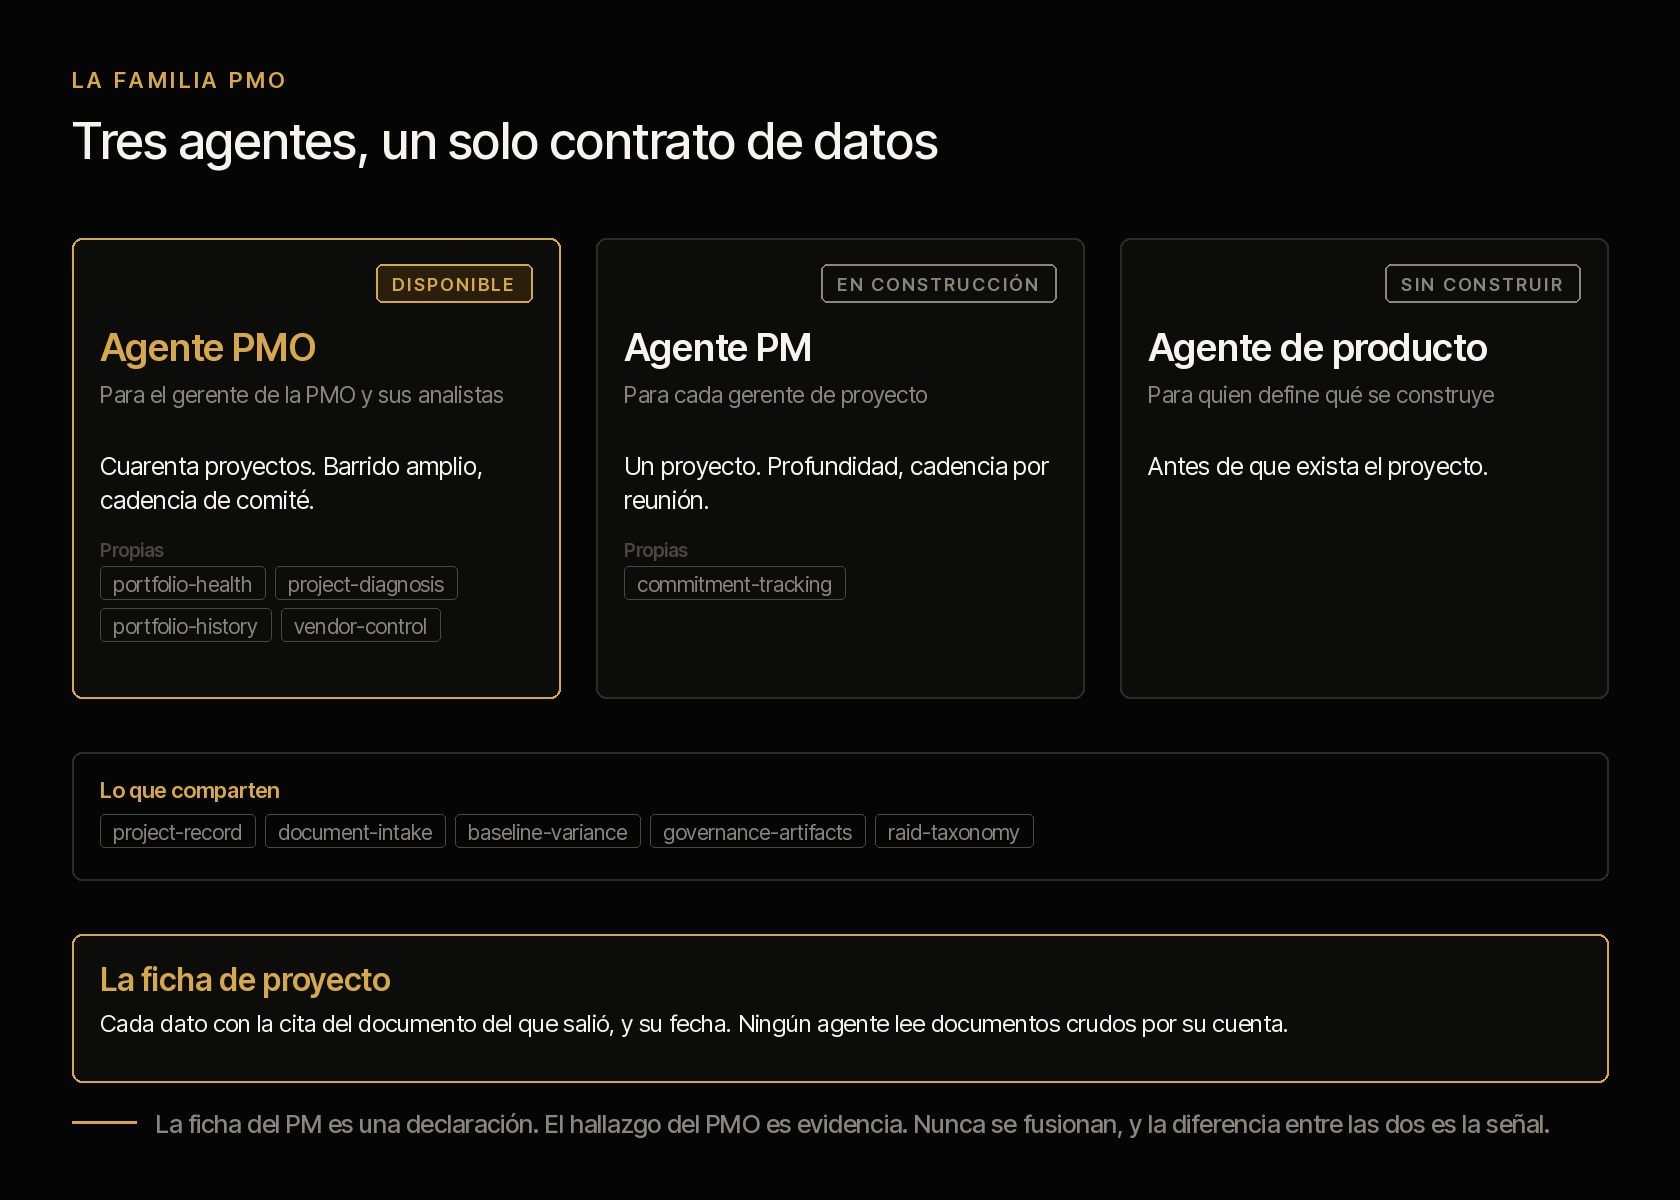
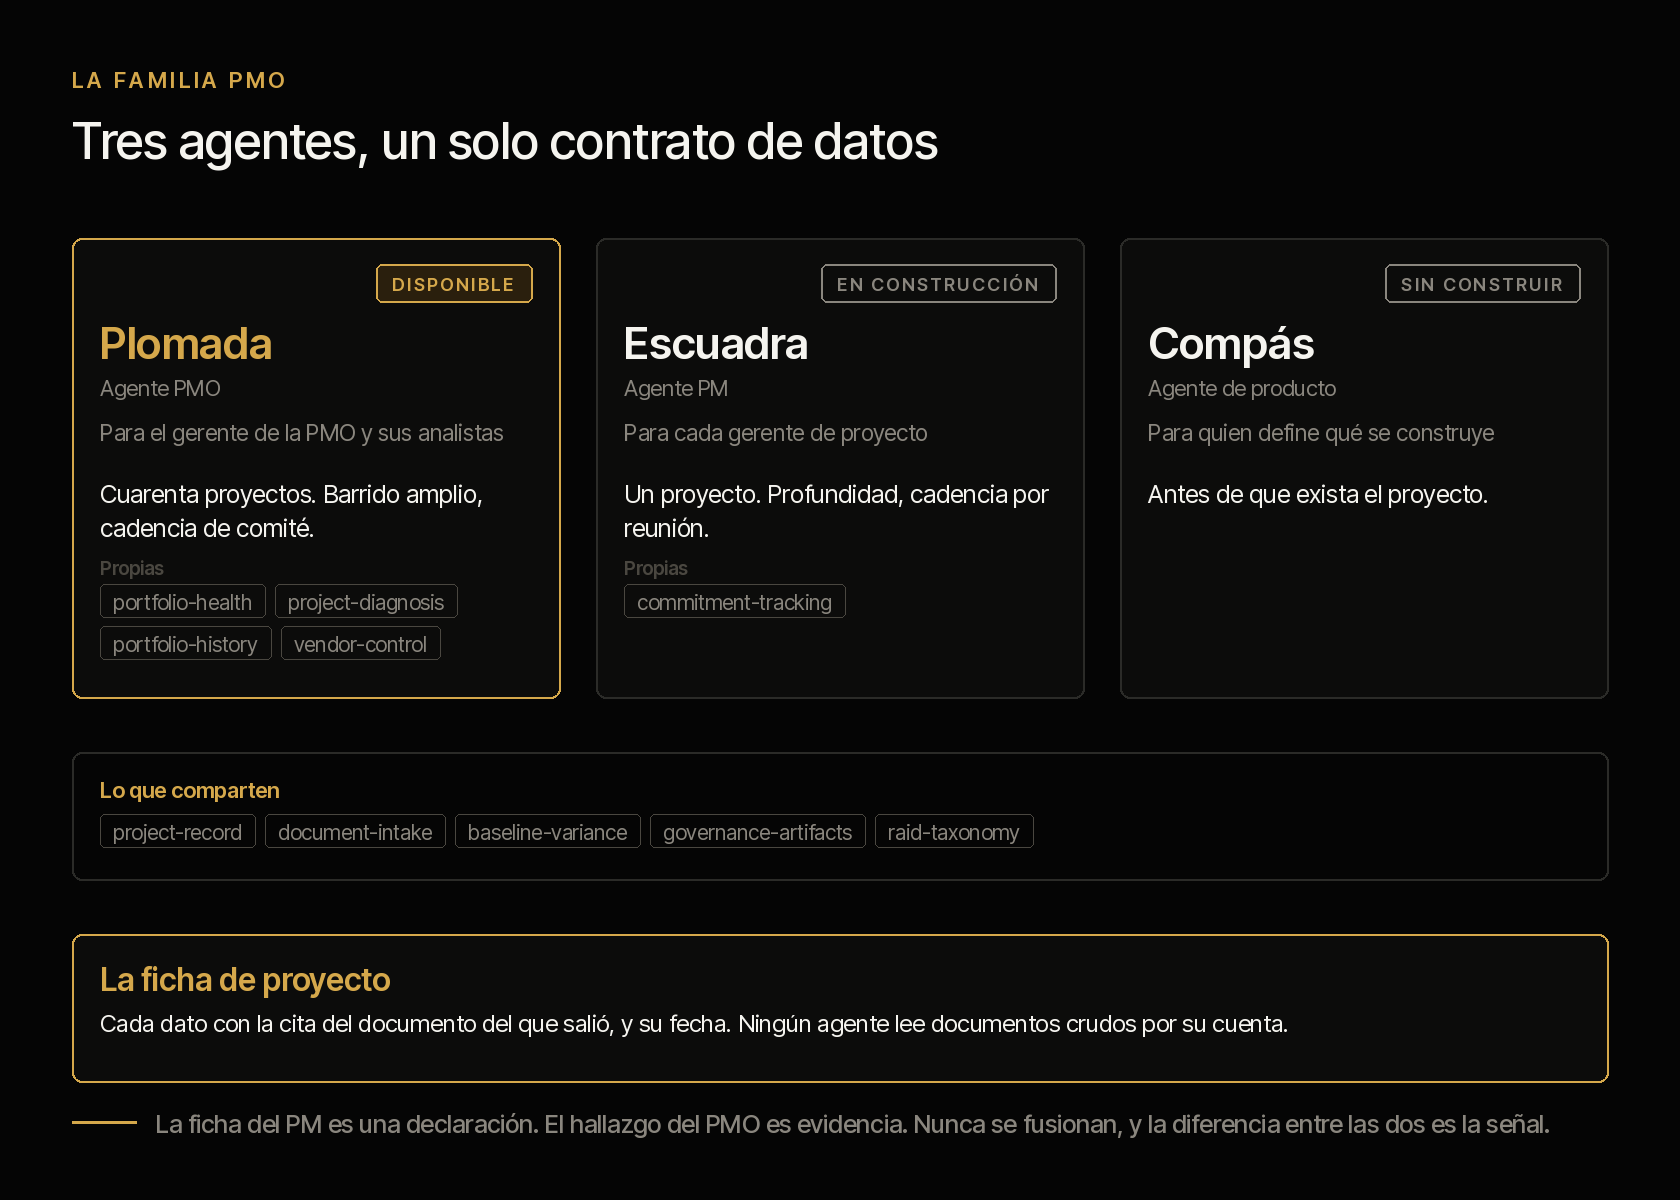
Plomada, Escuadra y Compás: los agentes tienen nombre
Instrumentos de trazo y verificación, porque es exactamente lo que hacen.
Plomada cuelga quieta y dice si algo está derecho — no opina, muestra. Escuadra
verifica el ángulo de una pieza, que es un proyecto y no el conjunto. Compás mide
antes de trazar, que es antes de que el proyecto exista.

El sistema se eligió por la restricción que importaba: un nombre que no estire a
los hermanos obliga a rebautizar a todos en cuanto aparezca el segundo.

Dos cosas quedan separadas a propósito. La capacidad se llama PMO, CFO o CLO — es
la función de la organización. El agente lleva el nombre del instrumento — es
quien la extiende. Y los nombres no son identificadores: el plugin se sigue
llamando criterio-pmo, los comandos y los skills no cambian. El nombre le da
carácter a lo que la persona ve, no a lo que el código importa.

Los nombres tampoco se traducen, porque son propios. En el README en inglés se
explica qué es cada instrumento la primera vez que aparece.

La personalidad aterriza en un solo sitio y no en todas partes: una línea de
presentación al arrancar /pmo-setup, y sigue. La confianza en esto no la da una
presentación, la da el primer resultado sobre los documentos de la persona.

El infográfico de la familia lleva los tres nombres con su rol debajo, en los dos
idiomas.

Claude-Session: https://claude.ai/code/session_01X3q3shEmTnazEdXNaUPDNb

Changed region(s): [[0.0619, 0.2775, 0.3095, 0.555], [0.3714, 0.2775, 0.619, 0.5242], [0.681, 0.2775, 0.8976, 0.4317]]

diff --git a/docs/img/graficos.py b/docs/img/graficos.py
@@ -121,6 +121,7 @@ T = {
         # ── familia ──
         'fam_ante': 'La familia PMO',
         'fam_tit': 'Tres agentes, un solo contrato de datos',
+        'n1': 'Plomada', 'n2': 'Escuadra', 'n3': 'Compás',
         'ag1': 'Agente PMO',
         'ag1_para': 'Para el gerente de la PMO y sus analistas',
         'ag1_desc': 'Cuarenta proyectos. Barrido amplio, cadencia de comité.',
@@ -181,6 +182,7 @@ T = {
         'sin_construir': 'Not built',
         'fam_ante': 'The PMO family',
         'fam_tit': 'Three agents, one data contract',
+        'n1': 'Plomada', 'n2': 'Escuadra', 'n3': 'Compás',
         'ag1': 'PMO agent',
         'ag1_para': 'For the PMO manager and their analysts',
         'ag1_desc': 'Forty projects. Broad sweep, committee cadence.',
@@ -315,24 +317,25 @@ def familia(t):
     # tres columnas
     col = (W - 2 * M - 2 * 36) // 3
     agentes = [
-        (t['ag1'], t['ag1_para'], t['ag1_desc'], t['disponible'], True, SKILLS_PMO),
-        (t['ag2'], t['ag2_para'], t['ag2_desc'], t['construccion'], False, SKILLS_PM),
-        (t['ag3'], t['ag3_para'], t['ag3_desc'], t['sin_construir'], False, SKILLS_PROD),
+        (t['n1'], t['ag1'], t['ag1_para'], t['ag1_desc'], t['disponible'], True, SKILLS_PMO),
+        (t['n2'], t['ag2'], t['ag2_para'], t['ag2_desc'], t['construccion'], False, SKILLS_PM),
+        (t['n3'], t['ag3'], t['ag3_para'], t['ag3_desc'], t['sin_construir'], False, SKILLS_PROD),
     ]
     TOP, ALTO = 238, 460
-    for i, (nombre, para, desc, estado, activo, propios) in enumerate(agentes):
+    for i, (nombre, rol, para, desc, estado, activo, propios) in enumerate(agentes):
         x = M + i * (col + 36)
         d.rounded_rectangle([(x, TOP), (x + col, TOP + ALTO)], radius=10,
                             fill=PANEL, outline=ORO if activo else FILETE, width=2)
         px = x + 28
         # la insignia va arriba a la derecha: ahí no puede chocar con nada que fluya
         insignia(d, (px, TOP + 26), estado, activo, derecha=x + col - 28)
-        d.text((px, TOP + 86), nombre, font=f(M6, 38), fill=ORO if activo else CREMA)
-        parrafo(d, (px, TOP + 142), para, f(R, 23), APAGADO, col - 56, 32)
-        parrafo(d, (px, TOP + 212), desc, f(R, 25), CREMA, col - 56, 34)
+        d.text((px, TOP + 78), nombre, font=f(M6, 44), fill=ORO if activo else CREMA)
+        d.text((px, TOP + 136), rol, font=f(R, 22), fill=APAGADO)
+        parrafo(d, (px, TOP + 180), para, f(R, 23), APAGADO, col - 56, 32)
+        parrafo(d, (px, TOP + 240), desc, f(R, 25), CREMA, col - 56, 34)
         if propios:
-            d.text((px, TOP + 300), t['propias'], font=f(M6, 19), fill=FILETE_FUERTE)
-            fin = etiquetas(d, px, TOP + 328, propios, col - 56)
+            d.text((px, TOP + 318), t['propias'], font=f(M6, 19), fill=FILETE_FUERTE)
+            fin = etiquetas(d, px, TOP + 346, propios, col - 56)
             assert fin < TOP + ALTO - 20, f'{nombre}: las etiquetas se salen de la tarjeta'
 
     # la banda de lo compartido

diff --git a/docs/agents/README.md b/docs/agents/README.md
@@ -12,9 +12,9 @@ no duplicar la rotación.
 
 Una hoja por agente:
 
-- [Agente PMO](pmo.md) — gobierno de portafolio
-- [Agente Project Manager](project-manager.md) — un proyecto
-- [Agente Product Manager](product-manager.md) — antes de que exista el proyecto
+- [**Plomada** · agente PMO](pmo.md) — gobierno de portafolio
+- [**Escuadra** · agente Project Manager](project-manager.md) — un proyecto
+- [**Compás** · agente Product Manager](product-manager.md) — antes de que exista el proyecto
 
 La forma de todo lo que estos agentes entregan —informes, proyección, piezas gráficas— está en
 [`docs/design.md`](../design.md): es el diseño del portal, y se mantiene igual aquí.
@@ -107,6 +107,28 @@ Cada fila de C lleva dos datos, y ninguno es un riesgo:
   organización), *información fuera de los documentos*, o *juicio sobre personas*.
 - **Qué le entrega al agente** — porque casi toda función de C produce el insumo de una función
   de A o de B. Es la parte que hace de esto un ciclo y no dos mundos separados.
+
+---
+
+## Cómo se llaman
+
+**La capacidad se llama PMO, CFO o CLO. El agente lleva el nombre de un instrumento.** Son
+dos cosas distintas y conviene no mezclarlas: la capacidad es la función de la organización,
+y el agente es quien la extiende.
+
+| Agente | Nombre | Por qué ese |
+|---|---|---|
+| PMO | **Plomada** | Cuelga quieta y dice si algo está derecho. No opina: muestra |
+| Project Manager | **Escuadra** | Verifica el ángulo de una pieza. Un proyecto, no el conjunto |
+| Product Manager | **Compás** | Mide antes de trazar. Trabaja antes de que exista el proyecto |
+
+Instrumentos de trazo y verificación, porque es exactamente lo que hacen y porque así los
+tres son hermanos evidentes. Un nombre que no estire a los hermanos obliga a rebautizar a
+todos en cuanto aparezca el segundo.
+
+**Los nombres no se traducen** —son propios— y **no son identificadores**: el plugin se
+sigue llamando `criterio-pmo`, los comandos y los skills no cambian. El nombre le da
+carácter a lo que la persona ve, no a lo que el código importa.
 
 ---
 

diff --git a/plugins/criterio-pmo/README.es.md b/plugins/criterio-pmo/README.es.md
@@ -1,6 +1,6 @@
 # criterio-pmo
 
-**Un segundo cerebro para la oficina de proyectos.** Lee la documentación que tu PMO ya
+**Plomada, un segundo cerebro para la oficina de proyectos.** Lee la documentación que tu PMO ya
 tiene y dice qué cambió, qué se contradice y qué lleva semanas en silencio.
 
 [English](README.md) · Apache 2.0 · Se instala en cuatro clics · **El primer resultado sale
@@ -12,17 +12,20 @@ en quince minutos, sobre tus propios documentos**
 
 ![La familia PMO: tres agentes, un solo contrato de datos](../../docs/img/es/familia-pmo.png)
 
-La capacidad tiene más de un agente porque la organización tiene más de un rol. **El agente
-PMO está disponible hoy**; los otros dos vienen detrás y comparten el mismo contrato de
-datos.
+La capacidad tiene más de un agente porque la organización tiene más de un rol. Se llaman
+como instrumentos de trazo, porque es lo que hacen: **Plomada** cuelga quieta y dice si algo
+está derecho, **Escuadra** verifica el ángulo de una pieza, **Compás** mide antes de trazar.
 
-El **Agente PM** no va a las reuniones — el gerente va. Lo que hace es que el gerente llegue
+**Plomada está disponible hoy**; los otros dos vienen detrás y comparten el mismo contrato
+de datos.
+
+**Escuadra**, el agente del gerente de proyecto, no va a las reuniones — el gerente va. Lo que hace es que el gerente llegue
 con la semana preparada: la agenda armada antes, la minuta redactada después, el plan al día
 contra la evidencia y el informe listo salvo una línea. Su función central no la hace ninguna
 herramienta que un gerente use hoy: **el compromiso dicho y no cumplido.** Las reuniones están
 llenas de *«yo lo tengo para el viernes»* y nadie los registra.
 
-El **Agente de producto** trabaja antes de que exista el proyecto, y entrega el acta con la
+**Compás** trabaja antes de que exista el proyecto, y entrega el acta con la
 que el proyecto nace.
 
 ---

diff --git a/plugins/criterio-pmo/README.md b/plugins/criterio-pmo/README.md
@@ -1,6 +1,6 @@
 # criterio-pmo
 
-**A second brain for the project management office.** It reads the documentation your PMO
+**Plomada, a second brain for the project management office.** It reads the documentation your PMO
 already has and says what changed, what contradicts itself, and what has been silent for
 weeks.
 
@@ -14,16 +14,19 @@ fifteen minutes, over your own documents**
 ![The PMO family: three agents, one data contract](../../docs/img/en/familia-pmo.png)
 
 The capability has more than one agent because the organisation has more than one role.
-**The PMO agent is available today**; the other two come behind it and share the same data
-contract.
+They are named after drawing instruments, because that is what they do: **Plomada** — a plumb
+line — hangs still and tells you whether something is straight, **Escuadra** — a set square —
+checks the angle of one piece, **Compás** — a pair of dividers — measures before you draw.
 
-The **PM agent** does not attend the meetings — the manager does. What it does is let the
+**Plomada is available today**; the other two come behind it and share the same data contract.
+
+**Escuadra**, the project manager's agent, does not attend the meetings — the manager does. What it does is let the
 manager arrive with the week prepared: the agenda built beforehand, the minutes drafted
 afterwards, the plan current against the evidence, and the report ready except for one line.
 Its central function is one no tool a project manager uses today performs: **the commitment
 said and not kept.** Meetings are full of *"I'll have it by Friday"* and nobody records them.
 
-The **product agent** works before the project exists, and delivers the charter the project
+**Compás** works before the project exists, and delivers the charter the project
 is born from.
 
 ---

diff --git a/plugins/criterio-pmo/commands/pmo-setup.md b/plugins/criterio-pmo/commands/pmo-setup.md
@@ -29,6 +29,14 @@ Estas reglas importan más que el orden de los pasos:
 
 ## Flujo
 
+**0. Preséntate, en una línea**
+
+> Soy Plomada, el agente PMO de Criterio. Leo la documentación que ya tienes y digo qué no
+> se sostiene.
+
+Una línea y sigue. **No expliques lo que vas a hacer: hazlo.** La confianza en esto no la da
+una presentación, la da el primer resultado sobre sus propios documentos.
+
 **1. Mira antes de preguntar**
 
 Si hay ruta en el argumento, úsala. Si no, pregunta dónde están los documentos de proyectos y ofrece buscar.

diff --git a/docs/agents/product-manager.md b/docs/agents/product-manager.md
@@ -1,6 +1,6 @@
-# Agente Product Manager
+# Compás · el agente Product Manager
 
-Extiende al **gerente de producto**: la persona que define qué se va a construir, antes de que
+Mide antes de trazar. Extiende al **gerente de producto**: la persona que define qué se va a construir, antes de que
 exista un proyecto.
 
 Marco general, definición de las clases y de las columnas: [README](README.md).

diff --git a/docs/agents/pmo.md b/docs/agents/pmo.md
@@ -1,6 +1,6 @@
-# Agente PMO
+# Plomada · el agente PMO
 
-Extiende a la **oficina de proyectos**: la función que responde por el conjunto de los
+Cuelga quieta y dice si algo está derecho. Extiende a la **oficina de proyectos**: la función que responde por el conjunto de los
 proyectos, no por uno.
 
 Esta hoja es la referencia completa de la capacidad: el flujo, las piezas que la componen y

diff --git a/docs/agents/project-manager.md b/docs/agents/project-manager.md
@@ -1,6 +1,6 @@
-# Agente Project Manager
+# Escuadra · el agente Project Manager
 
-Extiende al **gerente de proyecto**: la persona que responde por un proyecto.
+Verifica el ángulo de una pieza. Extiende al **gerente de proyecto**: la persona que responde por un proyecto.
 
 Marco general, definición de las clases y de las columnas: [README](README.md).
 
